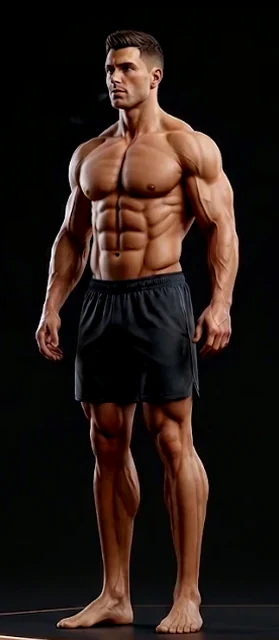
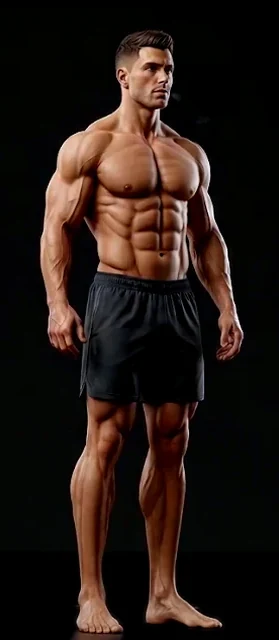
Сборка 50: круг счёта сверху и «выдох» под ним — без наслоения; ступни чёткие (подиум убран из картинок, маски нет); мужчина смотрит вправо, как женщина; фигура крупнее; «Совет недели по работе»

diff --git a/styles/components/heels.css b/styles/components/heels.css
@@ -8,21 +8,45 @@
 .heels {
   position: relative;
   display: grid;
-  grid-template-columns: 104px minmax(0, 1fr) auto;
+  grid-template-columns: 120px minmax(0, 1fr);
+  grid-template-rows: 1fr auto;
   align-items: center;
-  gap: var(--sp-3);
+  column-gap: var(--sp-3);
+  row-gap: var(--sp-4);
   margin-top: var(--sp-4);
   padding: var(--sp-2) var(--sp-3);
   border-radius: var(--r-md);
   background: radial-gradient(70% 90% at 30% 60%, rgba(var(--rgb-gold), 0.09), transparent 70%);
 }
 
-/* Фигура — два кадра один над другим. Фон картинок уведён в чёрный (scratchpad: cut.py) — «светлее из двух»
-   оставляет на его месте цвет карточки: фигура стоит прямо на карточке, без прямоугольника */
+/* Раскладка (владелец 14.11.2026: «выдох» наслаивался на круг): фигура слева во всю высоту, справа круг счёта
+   сверху и «выдох» со стрелкой под ним — каждое на своём месте */
+.heels > :is(.heels__art, .kf, .walk) {
+  grid-column: 1;
+  grid-row: 1 / span 2;
+}
+
+.heels > .minute__dial {
+  grid-column: 2;
+  grid-row: 1;
+  justify-self: center;
+  align-self: end;
+}
+
+.heels > :is(.heels__cues, .kegel__cue) {
+  grid-column: 2;
+  grid-row: 2;
+  justify-self: center;
+  align-self: start;
+}
+
+/* Фигура — два кадра один над другим. Фон картинок уведён в чёрный, подиум под ступнями тоже (14.11.2026: ступни
+   чёткие, без растворяющей маски) — «светлее из двух» оставляет на месте чёрного цвет карточки: фигура стоит прямо
+   на карточке, без прямоугольника. Мужчина отражён и смотрит вправо, как женщина (владелец 14.11.2026). */
 .heels__art {
   position: relative;
-  width: 104px;
-  height: 240px;
+  width: 120px;
+  height: 276px;
 }
 
 .heels__frame {
@@ -34,8 +58,6 @@
   object-position: center bottom;
   mix-blend-mode: lighten;
   transform-origin: 50% 100%;
-  -webkit-mask-image: linear-gradient(to bottom, #000 89%, transparent 97%);
-  mask-image: linear-gradient(to bottom, #000 89%, transparent 97%);
   user-select: none;
   pointer-events: none;
 }
@@ -146,15 +168,11 @@
 
 /* — «Выдох» со стрелкой вниз — вместе и без движения — */
 .heels__cues {
-  position: relative;
-  min-height: 2.6em;
+  display: flex;
+  justify-content: center;
 }
 
 .heels__cue {
-  position: absolute;
-  left: 0;
-  top: 50%;
-  translate: 0 -50%;
   font-family: var(--f-display);
   font-size: var(--fs-2xl);
   font-style: italic;

diff --git a/js/ui/heels.js b/js/ui/heels.js
@@ -20,10 +20,10 @@ import * as side from '../side/side.js';
 // Стрелка вниз под словом «выдох»
 const ARROW_DOWN = '<svg viewBox="0 0 16 26" fill="none" stroke="currentColor" stroke-width="1.8" stroke-linecap="round" stroke-linejoin="round"><path d="M8 2v20"/><path d="M2.5 16.5L8 22l5.5-5.5"/></svg>';
 
-/* Где рот на картинке (доли ширины и высоты) и куда идёт пар: мужчина смотрит влево, женщина — вправо.
+/* Где рот на картинке (доли ширины и высоты) и куда идёт пар: оба смотрят вправо (мужчина отражён 14.11.2026).
    Где центр таза — для свечения упражнения Кегеля (habits/figures.js). */
 export const FIGURE = {
-  man: { mouth: [0.4, 0.145], dir: -1, pelvis: [0.47, 0.55] },
+  man: { mouth: [0.6, 0.145], dir: 1, pelvis: [0.53, 0.55] },
   woman: { mouth: [0.61, 0.15], dir: 1, pelvis: [0.5, 0.52] },
 };
 

diff --git a/js/habits/habits.css b/js/habits/habits.css
@@ -7,8 +7,8 @@
 .kf,
 .walk {
   position: relative;
-  width: 104px;
-  height: 240px;
+  width: 120px;
+  height: 276px;
 }
 
 .kf__img,
@@ -25,21 +25,9 @@
 
 .kf__img {
   mix-blend-mode: lighten;
-  -webkit-mask-image: linear-gradient(to bottom, #000 93%, transparent 100%);
-  mask-image: linear-gradient(to bottom, #000 93%, transparent 100%);
 }
 
-.kegel__stage {
-  grid-template-columns: 104px minmax(0, 1fr) auto;
-}
 
-.steps__stage {
-  grid-template-columns: 120px minmax(0, 1fr) auto;
-}
-
-.walk {
-  width: 120px;
-}
 
 .walk__frame {
   mix-blend-mode: lighten;

diff --git a/version.js b/version.js
@@ -1,4 +1,4 @@
 /* НОМЕР СБОРКИ — одно место на всё приложение. Каждая выкладка поднимает его на единицу: по нему
    работник (sw.js) понимает, что пора скачать новые файлы, а настройки показывают версию.
    Файл обычный, не модуль: его читают и страница, и работник (importScripts). */
-self.GSL_VERSION = '49';
+self.GSL_VERSION = '50';

diff --git a/js/texts/man/ru.js b/js/texts/man/ru.js
@@ -45,7 +45,7 @@ export default {
     // Профиль, дети, дела (js/profile/, 14.11.2026)
     swapTitle: 'Заменяем:',
     kidsTitle: 'Детям',
-    bizTitle: 'Подсказка по делам',
+    bizTitle: 'Совет недели по работе',
     dayOf: 'День {day}',
     week: 'Неделя {n}',
     month: 'Месяц {n}',

diff --git a/js/texts/woman/ru.js b/js/texts/woman/ru.js
@@ -43,7 +43,7 @@ export default {
     // Профиль, дети, дела (js/profile/, 14.11.2026)
     swapTitle: 'Заменяем:',
     kidsTitle: 'Детям',
-    bizTitle: 'Подсказка по делам',
+    bizTitle: 'Совет недели по работе',
     dayOf: 'День {day}',
     week: 'Неделя {n}',
     month: 'Месяц {n}',
